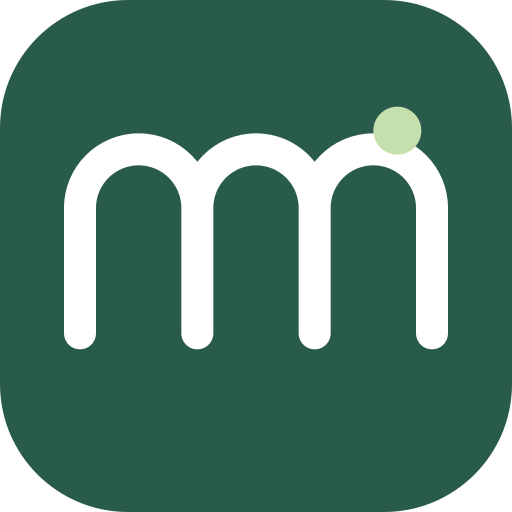
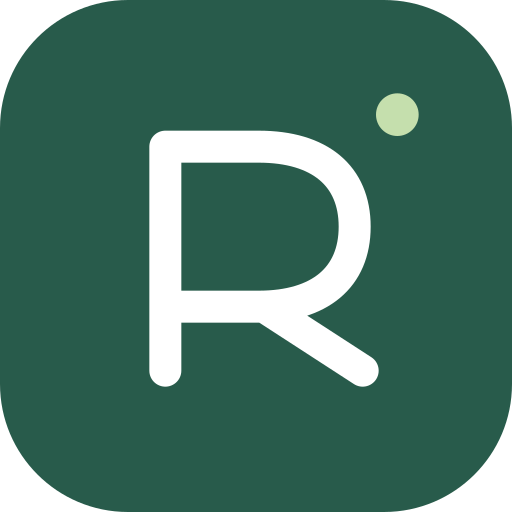
Rename app branding to Roamigo

Changed region(s): [[0.125, 0.1562, 0.875, 0.7812]]

diff --git a/worker/index.ts b/worker/index.ts
@@ -885,8 +885,8 @@ app.post("/api/rooms/:id/messages", async (c) => {
         "reply:" + id + ":" + p.id,
         p.email,
         direct
-          ? "machi：メッセージが届きました"
-          : "machi：小部屋に返信が届きました",
+          ? "Roamigo：メッセージが届きました"
+          : "Roamigo：小部屋に返信が届きました",
         '<p>新しいメッセージがあります。</p><p><a href="' +
           safeText(c.env.APP_ORIGIN + "/rooms/" + rid) +
           '">会話を開く</a></p>',
@@ -1078,7 +1078,7 @@ app.post("/api/bookings", async (c) => {
       db,
       "booking:" + id,
       u.email,
-      "machi：地域トークの参加が確定しました",
+      "Roamigo：地域トークの参加が確定しました",
       "<p>" +
         safeText(talk.title) +
         "の参加が確定しました。</p><p>開催前に会議リンクをお送りします。</p>",
@@ -1135,7 +1135,7 @@ app.delete("/api/bookings/:id", async (c) => {
       db,
       "cancel:" + b.id,
       u.email,
-      "machi：キャンセルを受け付けました",
+      "Roamigo：キャンセルを受け付けました",
       "<p>予約をキャンセルしました。</p><p>" +
         (refund ? "返金処理を受け付けました。" : "") +
         "</p>",
@@ -1205,7 +1205,7 @@ app.post("/api/consultations", async (c) => {
       c.env.DB,
       "consult:" + id,
       u.email,
-      "machi：プロへの相談を受け付けました",
+      "Roamigo：プロへの相談を受け付けました",
       "<p>運営が確認し、相談先との調整を進めます。</p>",
     ),
   ]);
@@ -1272,8 +1272,8 @@ app.post("/api/stripe/webhook", async (c) => {
           .bind(
             "paid:" + b.id,
             b.email,
-            "machi：参加が確定しました",
-            "machi：返金手続きを受け付けました",
+            "Roamigo：参加が確定しました",
+            "Roamigo：返金手続きを受け付けました",
             "<p>入金を確認しました。開催前に会議リンクをお送りします。</p>",
             "<p>予約を確定できなかったため返金します。</p>",
             b.id,
@@ -1545,7 +1545,7 @@ app.post("/api/admin/talks/:id/cancel", async (c) => {
         db,
         "cancel:" + b.id,
         b.email,
-        "machi：地域トークの中止",
+        "Roamigo：地域トークの中止",
         "<p>" +
           safeText(t.title) +
           "</p><p>" +
@@ -1730,7 +1730,7 @@ app.post("/api/admin/meeting", async (c) => {
         c.env.DB,
         "meeting:" + p.talkId + ":" + meetingKey + ":" + m.id,
         m.email,
-        "machi：地域トークの会議リンク",
+        "Roamigo：地域トークの会議リンク",
         "<p>" +
           safeText(t.title) +
           '</p><a href="' +
@@ -2040,7 +2040,7 @@ export default {
             env.DB,
             "reminder:" + r.id,
             r.email,
-            "machi：地域トークはまもなく開催です",
+            "Roamigo：地域トークはまもなく開催です",
             "<p>" +
               safeText(r.title) +
               "</p>" +

diff --git a/src/App.tsx b/src/App.tsx
@@ -111,7 +111,7 @@ export default function App() {
       { to: "/admin", label: "運営管理" },
     ].find((n) => location.pathname.startsWith(n.to))?.label || "地域ホーム";
   useEffect(() => {
-    document.title = `${pageTitle} | machi`;
+    document.title = `${pageTitle} | Roamigo`;
     setTransition(true);
     window.scrollTo(0, 0);
     const t = setTimeout(() => setTransition(false), 180);
@@ -125,10 +125,10 @@ export default function App() {
       <aside className="sidebar glass">
         <Link to="/" className="brand">
           <span className="brand-mark" aria-hidden="true">
-            m<span />
+            R<span />
           </span>
           <span>
-            machi<span className="brand-dot">.</span>
+            Roamigo<span className="brand-dot">.</span>
           </span>
         </Link>
         <Link to="/people" className="sidebar-region">
@@ -205,7 +205,7 @@ export default function App() {
             <span aria-current="page">{pageTitle}</span>
           </div>
           <Link to="/" className="mobile-brand">
-            machi<span>.</span>
+            Roamigo<span>.</span>
           </Link>
           <div className="topbar-right">
             <span className="community-tag">
@@ -292,7 +292,7 @@ export default function App() {
           )}
           <footer className="page-footer">
             <span>
-              machi<span className="brand-dot">.</span>
+              Roamigo<span className="brand-dot">.</span>
             </span>
             <small>地域と1対1の会話</small>
             <span className="footer-status">
@@ -1241,10 +1241,10 @@ function RegionCover({ person }: { person: CommunityMember }) {
     <div className="person-cover" aria-hidden="true">
       <span className="cover-country">
         <Globe2 size={13} />
-        {country?.name || "machi."}
+        {country?.name || "Roamigo"}
       </span>
       <Globe2 className="cover-globe" strokeWidth={0.55} />
-      <span className="cover-city">{region?.english || "machi."}</span>
+      <span className="cover-city">{region?.english || "Roamigo"}</span>
       <span className="cover-pearl">
         <MapPin size={23} strokeWidth={1.4} />
       </span>

diff --git a/admin/src/App.tsx b/admin/src/App.tsx
@@ -454,7 +454,7 @@ export default function App() {
     setMenu(false);
     setQuery("");
     setFilter("all");
-    document.title = current.label + " | machi 運営管理";
+    document.title = current.label + " | Roamigo 運営管理";
     window.scrollTo(0, 0);
     heading.current?.focus();
   }, [location.pathname]);
@@ -755,9 +755,9 @@ export default function App() {
           id="admin-navigation"
         >
           <a href="/" className="brand">
-            <span className="brand-icon">m</span>
+            <span className="brand-icon">R</span>
             <span>
-              machi<small>運営管理</small>
+              Roamigo<small>運営管理</small>
             </span>
           </a>
           <div className="workspace">
@@ -2068,7 +2068,7 @@ export default function App() {
               </motion.div>
             </AnimatePresence>
             <footer className="page-footer">
-              <span>machi / 運営管理</span>
+              <span>Roamigo / 運営管理</span>
               <span>
                 表示日時は日本時間 · 取得上限：会員500件 / その他100〜300件
               </span>

diff --git a/src/styles.css b/src/styles.css
@@ -158,9 +158,9 @@ select:focus-visible,
   display: flex;
   align-items: center;
   gap: 10px;
-  padding: 0 18px;
+  padding: 0 8px;
   font-family: "DM Sans", sans-serif;
-  font-size: 31px;
+  font-size: 28px;
   letter-spacing: -1.7px;
   font-weight: 700;
 }
@@ -169,6 +169,7 @@ select:focus-visible,
   color: #5d6c55;
 }
 .brand-mark {
+  flex-shrink: 0;
   display: flex;
   align-items: center;
   justify-content: center;

diff --git a/admin/index.html b/admin/index.html
@@ -5,7 +5,8 @@
     <meta name="viewport" content="width=device-width, initial-scale=1.0" />
     <meta name="theme-color" content="#f4f7f6" />
     <meta name="robots" content="noindex,nofollow" />
-    <title>運営管理 | machi</title>
+    <link rel="icon" type="image/svg+xml" href="/icon.svg" />
+    <title>運営管理 | Roamigo</title>
   </head>
   <body>
     <div id="root"></div>

diff --git a/admin/src/admin.css b/admin/src/admin.css
@@ -155,7 +155,7 @@ button {
   gap: 12px;
   padding: 0 12px;
   color: #244f40;
-  font-size: 1.7rem;
+  font-size: 1.5rem;
   font-weight: 800;
   letter-spacing: -0.06em;
 }
@@ -167,6 +167,7 @@ button {
   margin-top: 1px;
 }
 .brand-icon {
+  flex-shrink: 0;
   background: linear-gradient(140deg, #397762, #22533f);
   height: 43px;
   width: 43px;

diff --git a/index.html b/index.html
@@ -20,7 +20,7 @@
       href="https://fonts.googleapis.com/css2?family=DM+Sans:wght@400;500;600;700&family=Noto+Sans+JP:wght@400;500;600;700&display=swap"
       rel="stylesheet"
     />
-    <title>machi — 地域ホーム</title>
+    <title>Roamigo — 地域ホーム</title>
   </head>
   <body>
     <div id="root"></div>

diff --git a/docs/testing.md b/docs/testing.md
@@ -20,6 +20,17 @@
 
 実行コマンドは `npm run test:all`、`npm audit --audit-level=high`、`npx wrangler deploy --dry-run --outdir .wrangler/build`。
 
+## 10月28日の名称変更
+
+表示名を **Roamigo** に変更しました。利用者・管理のロゴ、ページタイトル、PWAのインストール名、SVG / PNGアイコン、通知メールの件名、READMEを更新しています。ロゴの文字数に合わせて幅を調整しました。既存のCookie・保存キー・公開先の識別名は引き継ぐため、名称変更によるログアウトやプレビューデータの初期化は行いません。
+
+- TypeScript / 両フロントの本番ビルド、単体テスト48件が合格。
+- PC・スマホのホーム / 主要導線、プロフィールから別管理サイトへの移動、管理11画面のはみ出し・WCAG自動検査を含む既存6ケースが合格（失敗・スキップ0）。今回の変更に対する確認であり、160件を再実行したという意味ではありません。
+- ビルドされたPWAマニフェストの名称、両ページのタイトル、192px / 512pxアイコン、両サイトのSVGの一致を確認。
+- 実ブラウザでPCと320px幅の表示を確認。320px幅でページの横はみ出しはありません。
+
+結果は `.wrangler/roamigo-brand-results.json` に保存しています。[利用者PC](screenshots/roamigo-home-desktop.png) / [利用者スマホ](screenshots/roamigo-home-mobile.png) / [管理PC](screenshots/roamigo-admin-desktop.png)。
+
 ## 10月24日の管理サイトの確認
 
 全体実行 `npm run test:all` は単体48件・ブラウザ/API 111件の計159件が合格しました。最後に、利用停止中の事業者を相談先から外し、新規相談のAPI送信を拒否するケースを1件追加しました。この変更に対して単体48件と、利用者・管理の実接続UI / API 47件を再実行して全件合格しています。重複実行を加算しない検証ケース数は160件です。全体のJSON・HTMLレポートは `test-results/` / `playwright-report/`、最後の追加検証は `.wrangler/backend-final-results.json` に分けて保持しています。

diff --git a/README.md b/README.md
@@ -1,4 +1,4 @@
-# machi
+# Roamigo
 
 国籍・居住地域・興味から話したい相手を探す、旅行者、再訪者、住民向けの招待制Webアプリ。1対1で旅の前後も会話を続けます。京都のトークやメモはサンプルで、居住地や訪問先は本人が地域ごとに登録します。
 
